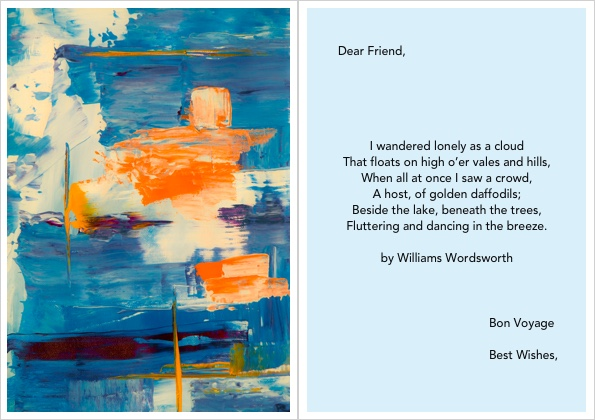
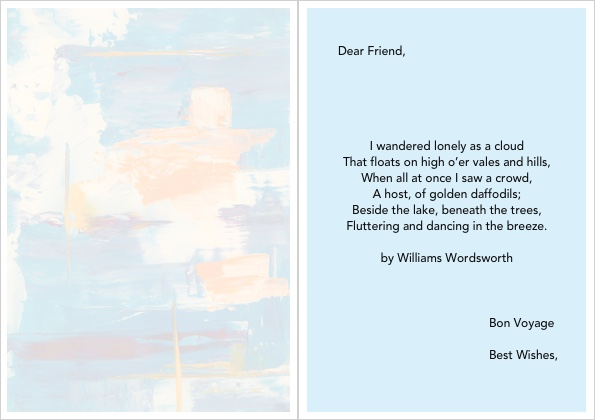
Print PDF

diff --git a/src/PrintCard/PrintCard.js b/src/PrintCard/PrintCard.js
@@ -6,75 +6,125 @@ import img2 from '../images/OpenCard.jpg';
 import img3 from '../images/Overlay.jpg';
 import { modelInstance } from '../data/PoetryModel';
 import 'bootstrap/dist/css/bootstrap.css' ;
+import ReactToPrint from "react-to-print";
 
-class PrintCard extends Component {
-
-    constructor(props) {
-        super(props);
-        this.state = {
-          cardId : this.props.match.params.id,
-          url: null,
-          cardTxt:this.props.model.getPoetryTxt()
-        };
-      }
-  
-      componentDidMount = () => {
-
-        modelInstance.getCardImage(this.props.match.params.id).then(card => {
-            this.setState({
-              status: 'LOADED',
-              url: card.src.portrait,
-            })
-          }).catch(() => {
-            this.setState({
-              status: 'ERROR',
-            })
-          })
-
-      }   
+class PrintFront extends Component {  
 
     render() {
 
         return(
             <div className="PrintCard">
-                <div>
-                  <h2 >Print Card</h2> 
-                  <p>Use A5 size photo paper to print this card.</p>
-                </div>
                 <div className="p-3" >
-                    <div style={{ backgroundImage: 'url(' + require('../images/EmptyCard280x420.png') + ')', backgroundRepeat: 'no-repeat',  backgroundPosition: 'center'}}>
-                                <img className="figureImg" src={this.state.url}/>
+                    <div style={{ backgroundImage: 'url(' + require('../images/EmptyCard.jpg') + ')', backgroundRepeat: 'no-repeat',  backgroundPosition: 'center'}}>
+                                <img className="figureImg1" src={this.props.url}/>
                     </div>
-                </div>
-                <div className="row">
-                  <div className="col-xl-3"></div>
-                <div className="col-xl-6 col-md-6 pb-3">
-                            <div className="card">
-                                <div className="row no-gutters centered">
-                                    <div className="col-xl-6 col-md-12 p-1">
-                                      <figure className="figure">
-                                        <img className="card-img-right" src={this.state.url}/>
-                                      </figure>
-                                    </div>
-                                    <div className="col-xl-6 col-md-12 mt-4">
-                                        <strong className="mb-2 text-primary">Dear Friend</strong>
-                                        <p className="mx-auto align-self-center">{this.state.cardTxt}</p>
-                                        <strong className="mb-2 text-primary">Best Wishes</strong>
-                                    </div>
-                                </div>
-                            </div>
-                </div> 
-                <div className="col-xl-3"></div>
-                </div>      
-
-                <Link to="/search">
-                    <button className="PrintBtn">Print my Card!</button>
-                </Link>
+                </div>  
             </div>
 
         );
     }
 
+}
+
+class PrintInside extends Component {  
+
+  render() {
+
+      return(
+          <div className="PrintCard">
+                <div className="p-3" >
+                    <div className="row" style={{ backgroundImage: 'url(' + require('../images/EmptyCard.jpg') + ')', backgroundRepeat: 'no-repeat',  backgroundPosition: 'center'}}>
+                        <div className="col-3"></div> 
+                        <div className="col-3">       
+                                <img className="figureImg2" src={this.props.url}/>
+                        </div>  
+                        <div className="col-3 mt-5">      
+                            <strong className="text-primary">Dear Friend</strong>
+                                <p className="mr-3">{this.props.cardTxt}</p>
+                            <strong className="text-primary">Best Wishes</strong>
+                        </div>  
+                        <div className="col-3"></div>       
+                    </div>
+                </div> 
+
+              {/* <div className="row">
+                <div className="col-xl-3"></div>
+              <div className="col-xl-6 col-md-6 pb-3">
+                          <div className="card">
+                              <div className="row no-gutters centered">
+                                  <div className="col-xl-6 col-md-12 p-1">
+                                    <figure className="figure">
+                                      <img className="card-img-right " src={this.props.url}/>
+                                    </figure>
+                                  </div>
+                                  <div className="col-xl-6 col-md-12 mt-4">
+                                      <strong className="mb-2 text-primary">Dear Friend</strong>
+                                      <p className="mx-auto align-self-center">{this.props.cardTxt}</p>
+                                      <strong className="mb-2 text-primary">Best Wishes</strong>
+                                  </div>
+                              </div>
+                          </div>
+              </div> 
+              <div className="col-xl-3"></div>
+              </div>     */}
+          </div>
+
+      );
+  }
+
+}
+
+class PrintCard extends React.Component {
+
+  constructor(props) {
+    super(props);
+    this.state = {
+      cardId : this.props.match.params.id,
+      url: null,
+      cardTxt:this.props.model.getPoetryTxt()
+    };
+  }
+
+  componentDidMount = () => {
+
+    modelInstance.getCardImage(this.props.match.params.id).then(card => {
+        this.setState({
+          status: 'LOADED',
+          url: card.src.portrait,
+        })
+      }).catch(() => {
+        this.setState({
+          status: 'ERROR',
+        })
+      })
+
+  } 
+
+  render() {
+    return (
+      <div className="PrintCard">
+          <div>
+            <h2 >Print Card</h2> 
+                <p>Use A5 size photo paper to print this card.</p>
+          </div>
+
+        <PrintFront url={this.state.url} cardTxt={this.state.cardTxt} ref={el1 => (this.componentRef1 = el1)} />
+        <ReactToPrint
+          trigger={() => <button className="PrintBtn">Print front!</button>}
+          content={() => this.componentRef1}
+          copyStyles={() => true}
+        />
+
+        <PrintInside url={this.state.url} cardTxt={this.state.cardTxt} ref={el2 => (this.componentRef2 = el2)} />
+        <ReactToPrint
+          trigger={() => <button className="PrintBtn">Print Inside!</button>}
+          content={() => this.componentRef2}
+          copyStyles={() => true}
+        />
+
+      </div>
+    );
+  }
 }
 
 export default PrintCard;

diff --git a/src/PrintCard/PrintCard.css b/src/PrintCard/PrintCard.css
@@ -23,23 +23,29 @@
 }
 
 .OpenCard{
-    height: 400px;
-    margin:20px;
-    padding: 20px
+    height: 420px;
+    margin:100px;
+    padding: 20px;
  }
 
 .ClosedCard{
    height: 400px;
    margin:20px;
    padding: 20px
-}
+  }
 
   .figure{  
     width:300px;
     overflow: hidden;
     margin:0;  
+    opacity:0.2;
   }
-  .figureImg{
+  .figureImg1{
     width:280px;  
-    margin-left:-75px;
+    margin-left:300px;
+  }
+
+  .figureImg2{
+    width:280px;  
+    opacity:0.2;
   }
